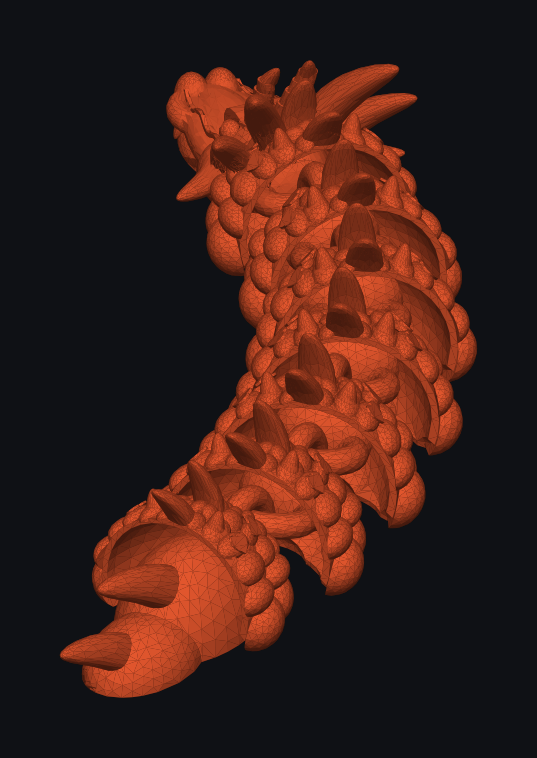
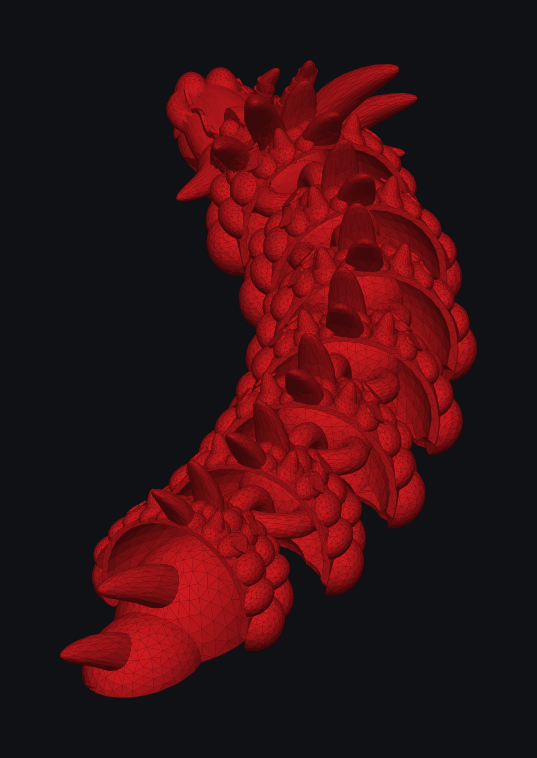
3d render instruction verbage cleanup and thematics edits

diff --git a/index.html b/index.html
@@ -5,35 +5,61 @@
 <meta name="viewport" content="width=device-width, initial-scale=1.0">
 <title>Articulated Dragon</title>
 <style>
-  :root { --bg:#0f1115; --panel:#181b22; --text:#e8e6e3; --muted:#9aa0a6; --accent:#e4572e; }
+  :root { --bg:#0f1115; --panel:#181b22; --text:#e8e6e3; --muted:#9aa0a6; --accent:#c1121f; --accent-hover:#e01e2b; }
   * { box-sizing:border-box; margin:0; padding:0; }
   body { font-family: system-ui, -apple-system, Segoe UI, Roboto, sans-serif; background:var(--bg); color:var(--text); height:100vh; display:flex; flex-direction:column; }
-  header { padding:14px 20px; display:flex; align-items:center; justify-content:space-between; gap:12px; flex-wrap:wrap; background:var(--panel); border-bottom:1px solid #262a33; }
-  h1 { font-size:1.1rem; font-weight:600; letter-spacing:.02em; }
+  header { padding:14px 20px; display:flex; align-items:center; justify-content:space-between; gap:12px; flex-wrap:wrap; background:var(--panel); border-bottom:2px solid var(--accent); }
+  h1 { font-size:1.1rem; font-weight:700; letter-spacing:.04em; text-transform:uppercase; }
   h1 span { color:var(--accent); }
   .controls { display:flex; gap:8px; align-items:center; flex-wrap:wrap; }
-  select, button, input[type=color] { background:#232733; color:var(--text); border:1px solid #333846; border-radius:6px; padding:6px 10px; font-size:.85rem; cursor:pointer; }
+  button, input[type=color] { background:#232733; color:var(--text); border:1px solid #333846; border-radius:6px; padding:6px 10px; font-size:.85rem; cursor:pointer; }
   input[type=color] { padding:2px; width:36px; height:30px; }
-  button:hover, select:hover { border-color:var(--accent); }
-  a { color:var(--accent); text-decoration:none; font-size:.85rem; }
+  button:hover { border-color:var(--accent); }
+  button.primary { background:var(--accent); border-color:var(--accent); color:#fff; font-weight:600; }
+  button.primary:hover { background:var(--accent-hover); border-color:var(--accent-hover); }
+  button:disabled { opacity:.5; cursor:not-allowed; }
+  a { color:var(--accent); text-decoration:none; font-size:.85rem; font-weight:600; }
+  a:hover { color:var(--accent-hover); }
   #viewer { flex:1; position:relative; }
   #msg { position:absolute; inset:0; display:flex; align-items:center; justify-content:center; color:var(--muted); text-align:center; padding:20px; pointer-events:none; }
-  footer { padding:8px 20px; font-size:.75rem; color:var(--muted); background:var(--panel); border-top:1px solid #262a33; }
+  footer { padding:10px 20px; font-size:.75rem; font-weight:600; letter-spacing:.08em; text-transform:uppercase; color:var(--text); background:var(--panel); border-top:1px solid #262a33; text-align:center; }
+  footer .sep { color:var(--accent); margin:0 .9em; }
+  #modal { position:fixed; inset:0; background:rgba(0,0,0,.6); display:none; align-items:center; justify-content:center; padding:20px; z-index:10; }
+  #modal.open { display:flex; }
+  .card { background:var(--panel); border:1px solid #333846; border-top:3px solid var(--accent); border-radius:10px; padding:22px; max-width:420px; width:100%; }
+  .card h2 { font-size:1rem; text-transform:uppercase; letter-spacing:.06em; margin-bottom:10px; }
+  .card p { font-size:.9rem; color:var(--muted); line-height:1.5; margin-bottom:10px; }
+  .swatch { display:inline-block; width:14px; height:14px; border-radius:3px; vertical-align:-2px; margin-right:6px; border:1px solid #555; }
+  .card .row { display:flex; gap:8px; justify-content:flex-end; margin-top:16px; flex-wrap:wrap; }
 </style>
 </head>
 <body>
 <header>
   <h1>Articulated <span>Dragon</span></h1>
   <div class="controls">
-    <select id="part" aria-label="Choose model part"></select>
-    <input type="color" id="color" value="#e4572e" aria-label="Model color">
+    <input type="color" id="color" value="#c1121f" aria-label="Model color">
     <button id="spin">Pause spin</button>
     <button id="wire">Wireframe</button>
+    <button id="export" class="primary" disabled>Export STL</button>
     <a href="https://github.com/claire-yuan-xi/articulated-dragon">GitHub</a>
   </div>
 </header>
 <div id="viewer"><div id="msg">Loading…</div></div>
-<footer>Drag to rotate · Scroll to zoom · Right-drag to pan</footer>
+<footer>
+  Drag to Rotate<span class="sep">|</span>Scroll to Zoom<span class="sep">|</span>Right-Drag to Pan<span class="sep">|</span>Export to Request a Print
+</footer>
+
+<div id="modal" role="dialog" aria-modal="true" aria-labelledby="modal-title">
+  <div class="card">
+    <h2 id="modal-title">STL Exported</h2>
+    <p><span class="swatch" id="swatch"></span><strong id="filename"></strong> has been downloaded.</p>
+    <p>Want this dragon printed? Email the creator. The email will be filled in with your chosen color. Attach the downloaded file before you send it.</p>
+    <div class="row">
+      <button id="close">Close</button>
+      <button id="email" class="primary">Email Creator</button>
+    </div>
+  </div>
+</div>
 
 <script type="importmap">
 { "imports": {
@@ -45,29 +71,27 @@
 import * as THREE from 'three';
 import { OrbitControls } from 'three/addons/controls/OrbitControls.js';
 import { STLLoader } from 'three/addons/loaders/STLLoader.js';
-import { OBJLoader } from 'three/addons/loaders/OBJLoader.js';
 
-// List every model file you put in /models here.
-const MODELS = [
-  { label: 'Full dragon (print-in-place)', file: 'models/dragon.stl' },
-  // { label: 'Head', file: 'models/head.stl' },
-  // { label: 'Body segment', file: 'models/segment.stl' },
-];
+const MODEL_FILE = 'models/dragon.stl';
+const CREATOR_EMAIL = 'claire.yuan02@gmail.com';
 
 const el = document.getElementById('viewer');
 const msg = document.getElementById('msg');
+const colorInput = document.getElementById('color');
+const exportBtn = document.getElementById('export');
+
 const scene = new THREE.Scene();
 scene.background = new THREE.Color(0x0f1115);
 
 const camera = new THREE.PerspectiveCamera(45, el.clientWidth / el.clientHeight, 0.1, 5000);
-const renderer = new THREE.WebGLRenderer({ antialias: true });
+const renderer = new THREE.WebGLRenderer({ antialias: true, preserveDrawingBuffer: true });
 renderer.setPixelRatio(window.devicePixelRatio);
 renderer.setSize(el.clientWidth, el.clientHeight);
 el.appendChild(renderer.domElement);
 
-scene.add(new THREE.HemisphereLight(0xffffff, 0x333344, 1.2));
-const key = new THREE.DirectionalLight(0xffffff, 1.6); key.position.set(1, 2, 1.5); scene.add(key);
-const rim = new THREE.DirectionalLight(0xffb38a, 0.6); rim.position.set(-2, 1, -1); scene.add(rim);
+scene.add(new THREE.HemisphereLight(0xffffff, 0x444455, 1.7));
+const key = new THREE.DirectionalLight(0xffffff, 2.2); key.position.set(1, 2, 1.5); scene.add(key);
+const rim = new THREE.DirectionalLight(0xffd0d0, 0.6); rim.position.set(-2, 1, -1); scene.add(rim);
 
 const grid = new THREE.GridHelper(400, 40, 0x333846, 0x222631);
 scene.add(grid);
@@ -77,8 +101,8 @@ controls.enableDamping = true;
 controls.autoRotate = true;
 controls.autoRotateSpeed = 1.5;
 
-const material = new THREE.MeshStandardMaterial({ color: 0xe4572e, roughness: 0.55, metalness: 0.1 });
-let current = null;
+const material = new THREE.MeshStandardMaterial({ color: colorInput.value, roughness: 0.55, metalness: 0.1 });
+let geometry = null;
 
 function frame(obj) {
   const box = new THREE.Box3().setFromObject(obj);
@@ -93,36 +117,103 @@ function frame(obj) {
   controls.update();
 }
 
-function load(file) {
-  msg.style.display = 'flex'; msg.textContent = 'Loading…';
-  if (current) { scene.remove(current); current = null; }
-  const isObj = file.toLowerCase().endsWith('.obj');
-  const loader = isObj ? new OBJLoader() : new STLLoader();
-  loader.load(file, (result) => {
-    let obj;
-    if (isObj) {
-      obj = result;
-      obj.traverse(c => { if (c.isMesh) c.material = material; });
-    } else {
-      result.computeVertexNormals();
-      obj = new THREE.Mesh(result, material);
+new STLLoader().load(MODEL_FILE, (geo) => {
+  geometry = geo;
+  geo.computeVertexNormals();
+  const mesh = new THREE.Mesh(geo, material);
+  mesh.rotation.x = -Math.PI / 2;           // Tinkercad exports Z-up; three.js is Y-up
+  const wrap = new THREE.Group(); wrap.add(mesh);
+  scene.add(wrap);
+  frame(wrap);
+  msg.style.display = 'none';
+  exportBtn.disabled = false;
+}, undefined, () => {
+  msg.textContent = "Couldn't load the model.";
+});
+
+// ---- Colored STL export ----
+// Standard STL has no color, so the chosen color is stored two common ways:
+//  1. The 80-byte header starts with "COLOR=" + RGBA (Materialise Magics convention).
+//  2. Each triangle's attribute bytes hold a 15-bit RGB color with bit 15 set
+//     (VisCAM/SolidView convention). In Magics, bit 15 means "use the header color",
+//     so both readers end up with the same color.
+// The color hex code is also put in the file name and the email.
+function buildColoredSTL(geo, hex) {
+  const n = parseInt(hex.slice(1), 16);     // read sRGB straight from the hex code
+  const r = (n >> 16) & 255, g = (n >> 8) & 255, b = n & 255;
+  const pos = geo.getAttribute('position');
+  const index = geo.getIndex();
+  const triCount = index ? index.count / 3 : pos.count / 3;
+
+  const buffer = new ArrayBuffer(84 + triCount * 50);
+  const view = new DataView(buffer);
+  const header = `COLOR=????  Articulated Dragon by Claire Yuan  color ${hex}`;
+  for (let i = 0; i < 80; i++) view.setUint8(i, i < header.length ? header.charCodeAt(i) : 0x20);
+  view.setUint8(6, r); view.setUint8(7, g); view.setUint8(8, b); view.setUint8(9, 255);
+  view.setUint32(80, triCount, true);
+
+  const attr = 0x8000 | ((r >> 3) << 10) | ((g >> 3) << 5) | (b >> 3);
+  const va = new THREE.Vector3(), vb = new THREE.Vector3(), vc = new THREE.Vector3();
+  const e1 = new THREE.Vector3(), e2 = new THREE.Vector3();
+  let o = 84;
+  for (let t = 0; t < triCount; t++) {
+    const ia = index ? index.getX(3 * t) : 3 * t;
+    const ib = index ? index.getX(3 * t + 1) : 3 * t + 1;
+    const ic = index ? index.getX(3 * t + 2) : 3 * t + 2;
+    va.fromBufferAttribute(pos, ia); vb.fromBufferAttribute(pos, ib); vc.fromBufferAttribute(pos, ic);
+    e1.subVectors(vb, va); e2.subVectors(vc, va); e1.cross(e2).normalize();
+    for (const v of [e1, va, vb, vc]) {
+      view.setFloat32(o, v.x, true); view.setFloat32(o + 4, v.y, true); view.setFloat32(o + 8, v.z, true);
+      o += 12;
     }
-    obj.rotation.x = -Math.PI / 2;           // Tinkercad exports Z-up; three.js is Y-up
-    const wrap = new THREE.Group(); wrap.add(obj);
-    scene.add(wrap); current = wrap;
-    frame(wrap);
-    msg.style.display = 'none';
-  }, undefined, () => {
-    msg.textContent = `Couldn't load the model.`;
-  });
+    view.setUint16(o, attr, true); o += 2;
+  }
+  return buffer;
 }
 
-const select = document.getElementById('part');
-MODELS.forEach((m, i) => select.add(new Option(m.label, i)));
-select.onchange = () => load(MODELS[select.value].file);
-if (MODELS.length < 2) select.style.display = 'none';
+let lastExport = null;
 
-document.getElementById('color').oninput = e => material.color.set(e.target.value);
+exportBtn.onclick = () => {
+  if (!geometry) return;
+  const hex = colorInput.value.toLowerCase();
+  const filename = `articulated-dragon-${hex.slice(1)}.stl`;
+  const blob = new Blob([buildColoredSTL(geometry, hex)], { type: 'model/stl' });
+  const url = URL.createObjectURL(blob);
+  const a = document.createElement('a');
+  a.href = url; a.download = filename;
+  document.body.appendChild(a); a.click(); a.remove();
+  setTimeout(() => URL.revokeObjectURL(url), 10000);
+
+  lastExport = { hex, filename };
+  document.getElementById('filename').textContent = filename;
+  document.getElementById('swatch').style.background = hex;
+  document.getElementById('modal').classList.add('open');
+};
+
+document.getElementById('email').onclick = () => {
+  if (!lastExport) return;
+  const { hex, filename } = lastExport;
+  const subject = `Articulated Dragon print request (${hex.toUpperCase()})`;
+  const body =
+`Hi Claire,
+
+I'd like an Articulated Dragon printed in this color: ${hex.toUpperCase()}
+
+I've attached the exported file: ${filename}
+
+Name:
+Shipping or pickup details:
+
+Thanks!`;
+  window.location.href = `mailto:${CREATOR_EMAIL}?subject=${encodeURIComponent(subject)}&body=${encodeURIComponent(body)}`;
+};
+
+const modal = document.getElementById('modal');
+document.getElementById('close').onclick = () => modal.classList.remove('open');
+modal.onclick = (e) => { if (e.target === modal) modal.classList.remove('open'); };
+addEventListener('keydown', (e) => { if (e.key === 'Escape') modal.classList.remove('open'); });
+
+colorInput.oninput = e => material.color.set(e.target.value);
 document.getElementById('wire').onclick = () => { material.wireframe = !material.wireframe; };
 document.getElementById('spin').onclick = e => {
   controls.autoRotate = !controls.autoRotate;
@@ -136,7 +227,6 @@ addEventListener('resize', () => {
 });
 
 renderer.setAnimationLoop(() => { controls.update(); renderer.render(scene, camera); });
-load(MODELS[0].file);
 </script>
 </body>
 </html>
